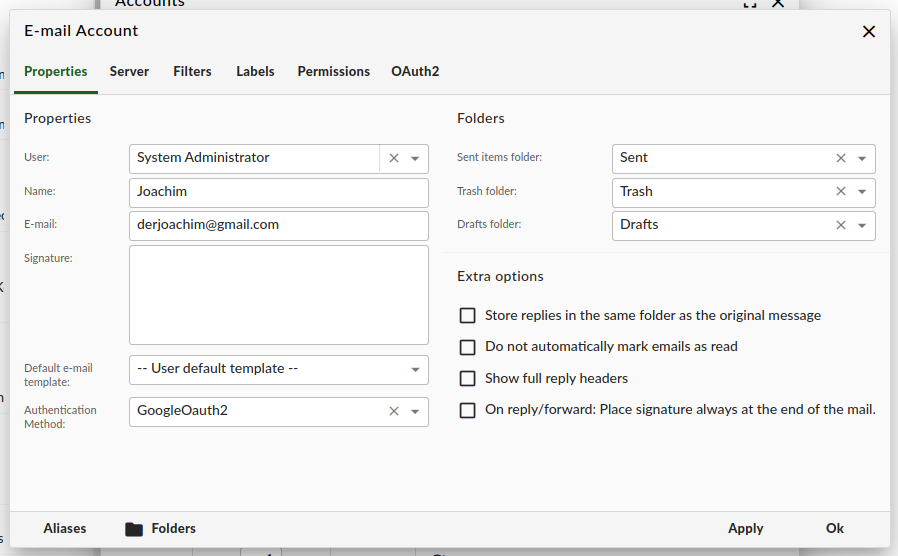
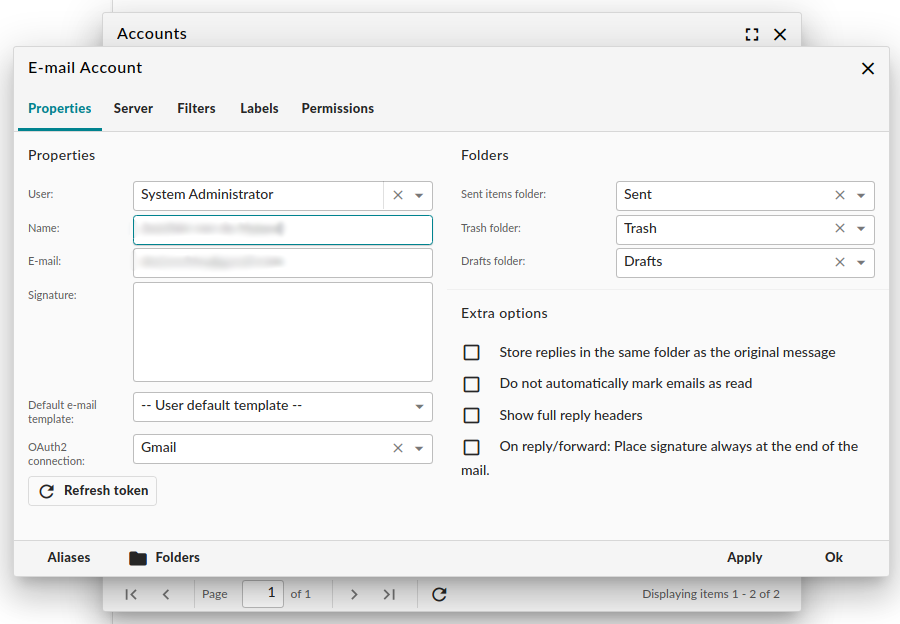
Updated Oauth2 documentation

diff --git a/using/oauth2/gmail.rst b/using/oauth2/gmail.rst
@@ -4,10 +4,10 @@
 Use Gmail with OAuth2
 =====================
 
-Support for the Gmail IMAP server has been expanded with OAuth2. In the old days, a user would be able to log into Gmail
-with their email address and password. However, when a user enables 2 factor authentication, this is not possible anymore.
-One way to circumvent this, is the configuration of an `App Password or LSA <https://support.google.com/accounts/answer/6010255>`_,
-but Google itself `does not recommend this <https://support.google.com/accounts/answer/185833?>`_ :
+In the old days, a user would be able to log into Gmail with their email address and password. However, when a user
+enables 2 factor authentication, this is not possible anymore. One way to circumvent this, is the configuration of an
+`App Password or LSA <https://support.google.com/accounts/answer/6010255>`_, but Google itself `does not recommend
+this <https://support.google.com/accounts/answer/185833?>`_ :
 
 	Tip: App Passwords aren’t recommended and are unnecessary in most cases. To help keep your account secure, use "Sign
 	in with Google" to connect apps to your Google Account.
@@ -15,8 +15,6 @@ but Google itself `does not recommend this <https://support.google.com/accounts/
 .. warning:: LSA were supposed to be phased out by 2020. Also, in case you have not clicked the link above, LSA means 'Less Secure App' . Please do not use these anymore!
 
 This guide contains a HOWTO on how to connect your Gmail account through OAuth2 with Group Office.
-
-.. note:: This module is supported for versions 6.5 and up.
 
 Create an app
 `````````````
@@ -53,27 +51,3 @@ A note to developers
 When using the official `Group Office development environment <https://github.com/Intermesh/docker-groupoffice-development>`_,
 please make sure to set the URL to `http://localhost:8000` in the system settings. Localhost is the only non-https URL that
 accepted by Google. You cannot use `http://host.docker.internal:8000` as the URL in your system configuration.
-
-Configure a Group Office Account
-````````````````````````````````
-
-First, you should install the OAuth2Client module. It is in the community package.
-
-If you have set up your app in the API dashboard, you can :ref:`set up <email>` your Gmail account in Group Office. It
-does need to be in production status yet, but you have certain restrictions if it is still in testing.
-
-1. Open the accounts dialog and either add a new account or open an existing gmail account.
-2. In the tab 'Properties', make sure that the field 'Authentication Method' is set to 'GoogleOauth2'.
-
-.. figure:: /_static/using/oauth2/email-account-tab-properties.png
-   :width: 800px
-
-3. In the tab 'OAuth2', enter the client ID, client secret and project Id from the downloaded JSON file. and click 'Apply'.
-
-.. figure:: /_static/using/oauth2/email-account-tab-oauth.png
-   :width: 800px
-
-4. Gain a refresh token by clicking the button 'Refresh token'. A new window will open with a Google consent screen. Make sure that you check all checkboxes for gmail in the consent screen.
-5. Close the account dialog by clicking 'Ok'. Your refresh token should be saved.
-
-From now on, you will be able to use gmail in Group Office using OAuth2.

diff --git a/using/oauth2.rst b/using/oauth2.rst
@@ -3,12 +3,59 @@ OAuth2 Client
 
 The OAuth2 client module enables you to connect to cloud services using a OAuth2 connection. It is part of the community package.
 
-.. note:: This module is supported from 6.5 and up.
+.. note:: This module is supported from 6.6 and up.
+
+Create a connection
+```````````````````
+
+First, you should install the OAuth2Client module. It is in the community package.
+
+Next, you should make sure to configure your :ref:`provider <supported-providers>`.
+
+The next step is creating a connection in system settings. Regardless of OAuth2 service that you wish to configure, the
+following fields are common:
+
+* **Name**: This is the name that of the connection that will be displayed in the OAuth2 connection combobox when configuring an email account.
+* **Provider**: Select one of the know provider. See below for details. When a default provider is selected, one does not need to configure IMAP and SMTP servers.
+* **Client Id**: Refers to the client Id as given by your provider.
+* **Client Secret**: Refers to the client secret at given by your provider
+* **API Project Id**: The naming of this field differs by provider. Google names it Project Id, whereas Azure refers to it as Tenant Id.
+
+
+.. figure:: /_static/using/oauth2/system-settings-oauth2-connection.png
+   :width: 800px
+
+	An example Google connection, used to connect to Gmail
+
+Configure an email account
+``````````````````````````
+
+If you have set up your app in the API dashboard, you can :ref:`set up <email>` your configured connection in Group
+Office.
+
+1. Open the accounts dialog and either add a new account or open an existing account.
+2. In the tab 'Properties', select the configured OAuth2 connection in the combobox.
+
+.. figure:: /_static/using/oauth2/email-account-tab-properties.png
+   :width: 800px
+
+3. Click Apply. This will save the account.
+4. Gain a refresh token by clicking the button 'Refresh token'. A new window will open. If you have not already done so, log into the external service. Give permission for Group Office to use OAuth2.
+5. If all goes well, you see a friendly welcome message. A refresh token will have been added to your configured account. You can now close the account dialog by clicking 'Ok'.
+
+From now on, you will be able to use email in Group Office using OAuth2. Please note that in OAuth2, tokens need to be
+refreshed periodically. This happens automatically.
+
+.. note:: When you still get logged out, you must renew a refresh token. However, this should happen very rarely.
+
+.. _supported-providers:
+
+Supported providers
+```````````````````
 
 Currently, we support the following OAuth2 providers:
 
 .. toctree::
    :maxdepth: 2
-   :caption: OAuth2 clients:
 
    oauth2/gmail
